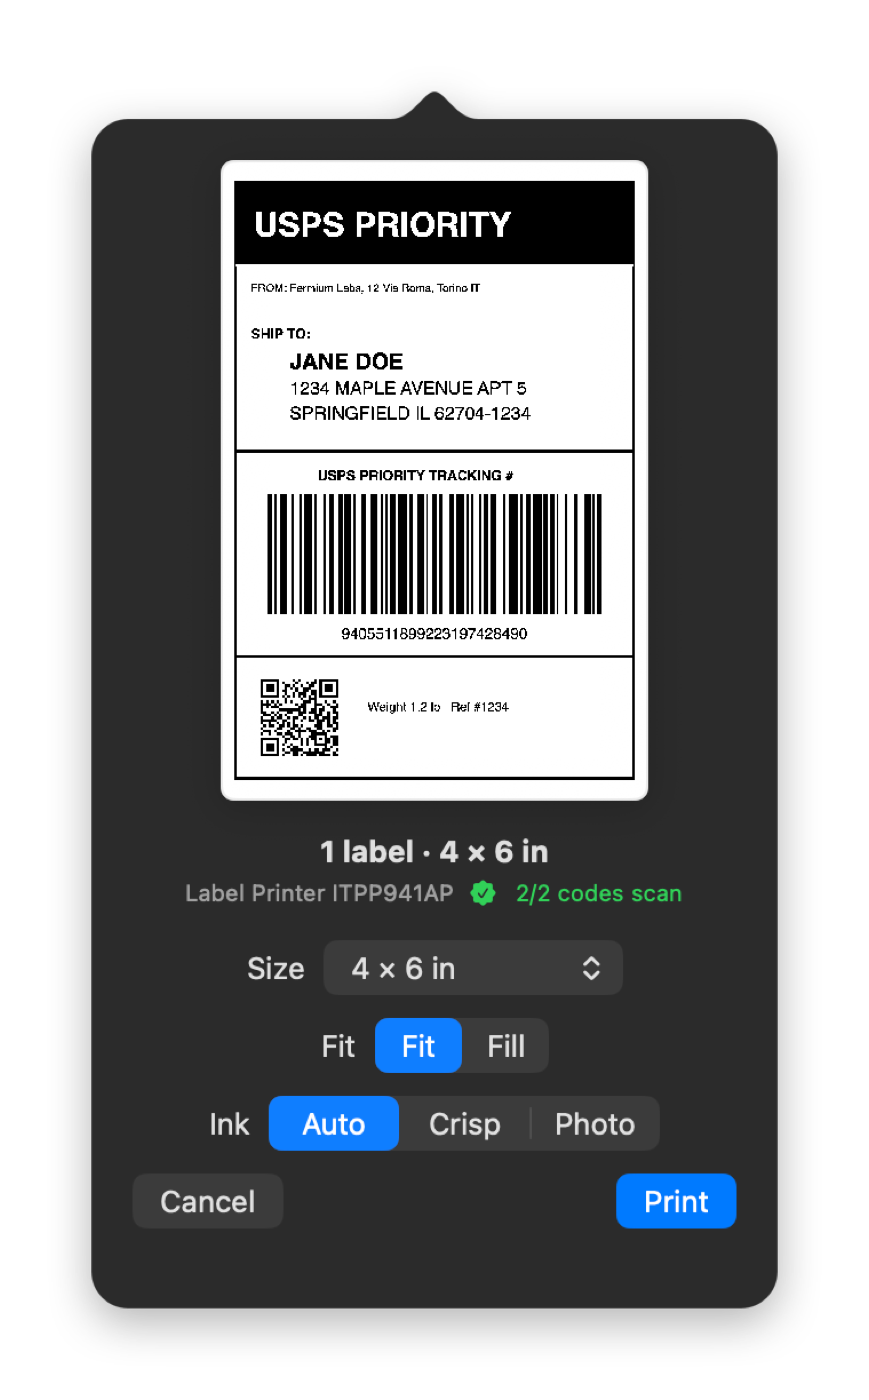
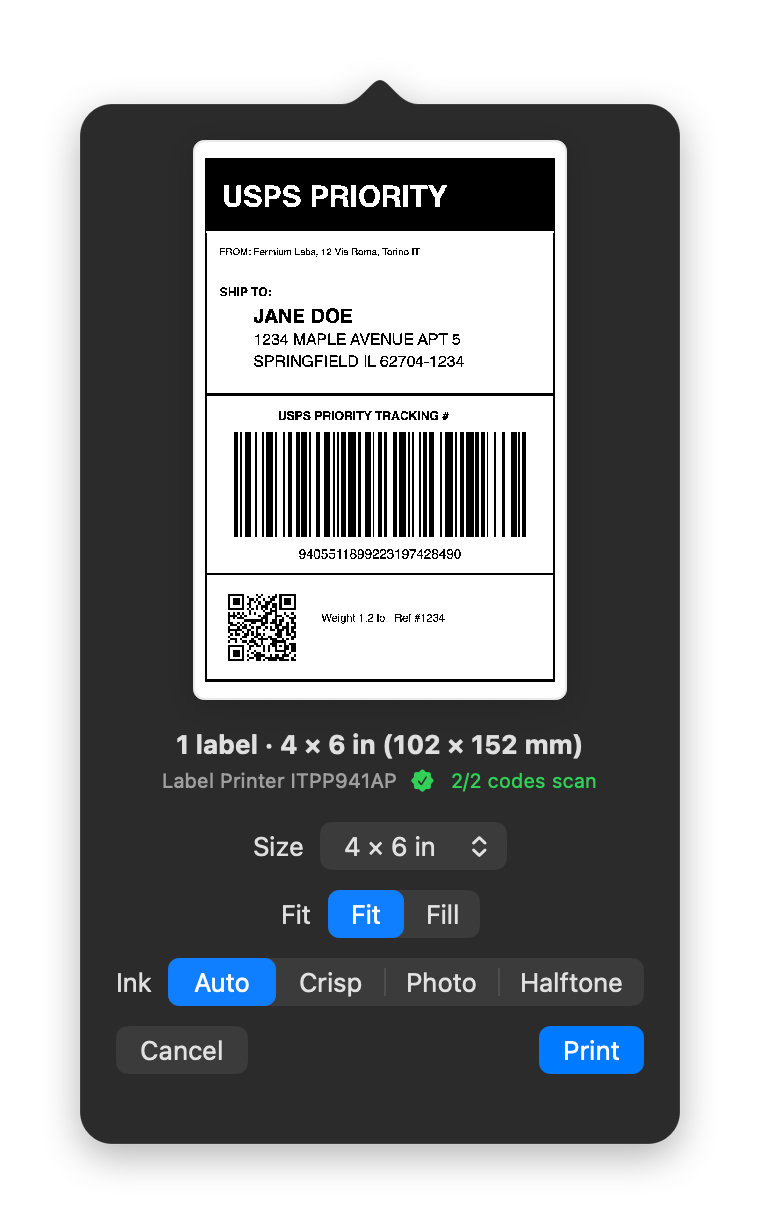
README: polish copy, add Rules section, refresh screenshots

diff --git a/README.md b/README.md
@@ -5,41 +5,65 @@
   </picture>
 </p>
 
-A small, simple, delightful Mac menu bar app that prints your labels instantly. Drop a PDF, PNG or any other image on it and it prints, with advanced features for automation when you need them.
+A small, simple, delightful Mac menu bar app that prints your labels instantly. Drop a PDF/PNG/SVG/etc in the top bar or use the rules to automatically print from a watched folder and route to any printer.
 
 <p align="center">
   <picture>
     <source media="(prefers-color-scheme: dark)" srcset="docs/screenshots/popover-review-dark.png">
-    <img src="docs/screenshots/popover-review-light.png" width="380" alt="The preview popover showing a 4 × 6 shipping label, with Size, Fit and Ink controls and a Print button">
+    <img src="docs/screenshots/popover-review-light.png" width="340" alt="The preview popover: a 4 × 6 shipping label with Size, Fit and Ink controls and a Print button">
+  </picture>
+  <picture>
+    <source media="(prefers-color-scheme: dark)" srcset="docs/screenshots/popover-dropzones-dark.png">
+    <img src="docs/screenshots/popover-dropzones-light.png" width="330" alt="Printer tiles shown while dragging: a label printer and a color printer">
   </picture>
 </p>
-
-Drop a PDF, screenshot, image or SVG on the parcel icon in the menu bar. Peel Good Inc. centers it, rotates it, scales it and prints it just the way you want.
-
-We're a small family-run business. We got tired of printing all our shipping labels by hand and getting confused about which ones we'd already printed, so we made this.
 
 ## Features
 
-- Automatically identifies barcodes, QR codes and DataMatrix codes, and lines them up with the exact dots your printer can print.
-- Supports common label sizes such as 4 × 6, 4 × 8, 4 × 4, 4 × 3, 4 × 2, 3 × 5, 3 × 3, 3 × 2, 2.5 × 1.5, 2.25 × 2.25, 2.25 × 1.25 and 2 × 2 in, plus custom sizes.
+- Finds barcodes, QR codes and DataMatrix codes and lines them up with the exact dots in your printhead.
+- Extensive rule system to automatically identify documents and send them to the right printer.
+- MCP Server to use the printer through AI clients as well as use AI to automatically configure and test the app.
+- Common label sizes: 4 × 6, 4 × 8, 4 × 4, 4 × 3, 4 × 2, 3 × 5, 3 × 3, 3 × 2, 2.5 × 1.5, 2.25 × 2.25, 2.25 × 1.25 and 2 × 2 in, metric rolls such as 100 × 150 mm, and custom sizes.
 - Watches a folder for new files.
-- Supports advanced rules to identify each label and route it to the right printer with the right settings.
-- After printing, it can tag the file in Finder, rename it, move it or put it in the Trash, so there's no confusion about which labels have been printed and which haven't.
-- A native Mac app: it works from the Share menu, Services, Open With, the clipboard and, of course, the menu bar.
+- After printing it can tag the file in Finder, rename it, move it or put it in the Trash, so you always know which labels are done.
+- Native Mac app: Share menu, Services, Open With, the clipboard and the menu bar.
+- Thermal printers only print black and white, and most documents aren't made for that. *Peel Good Inc.* converts them using multiple algorithms (sharp, dithering, halftone).
 
 <p align="center">
   <picture>
-    <source media="(prefers-color-scheme: dark)" srcset="docs/screenshots/settings-rules-dark.png">
-    <img src="docs/screenshots/settings-rules-light.png" width="640" alt="The Rules tab in Settings, with rules for Royal Mail, Amazon returns and photos">
+    <source media="(prefers-color-scheme: dark)" srcset="docs/screenshots/settings-printers-dark.png">
+    <img src="docs/screenshots/settings-printers-light.png" width="560" alt="Printers settings: label size, scaling, ink mode, threshold and a test label preview">
   </picture>
 </p>
-
-Thermal label printers can only print in black and white. Unfortunately, documents often aren't formatted for thermal labels, so Peel Good Inc. automatically converts them to black and white, using either a sharp conversion or dithering.
 
 <p align="center">
   <picture>
     <source media="(prefers-color-scheme: dark)" srcset="docs/screenshots/ink-modes-dark.png">
-    <img src="docs/screenshots/ink-modes-light.png" width="640" alt="The Ink Modes window comparing a sample label in Auto, Crisp and Photo">
+    <img src="docs/screenshots/ink-modes-light.png" width="640" alt="The Ink Modes window comparing a sample label in each ink mode">
+  </picture>
+</p>
+
+## Rules
+
+A rule is one sentence: when a file matches these conditions, print it on this printer at this size. Rules are checked from the top; the first match wins. Anything else goes to the default printer.
+
+Conditions: source website, file name, file type, folder, how it arrived (drop, clipboard, Finder, watched folder, another app), page size, number of pages, codes on the page, code text.
+
+A rule sets the printer, label size, scaling, ink, copies, whether to print, preview or ask first, and a Finder tag after printing.
+
+Templates for Amazon returns, Royal Mail Click & Drop and shipping labels on Letter pages. Test a File in Settings → Rules shows which rule a file matches without printing.
+
+<p align="center">
+  <picture>
+    <source media="(prefers-color-scheme: dark)" srcset="docs/screenshots/settings-rules-dark.png">
+    <img src="docs/screenshots/settings-rules-light.png" width="560" alt="The Rules tab in Settings, with rules for Royal Mail, Amazon returns and photos">
+  </picture>
+</p>
+
+<p align="center">
+  <picture>
+    <source media="(prefers-color-scheme: dark)" srcset="docs/screenshots/settings-rule-editor-dark.png">
+    <img src="docs/screenshots/settings-rule-editor-light.png" width="500" alt="The rule editor: conditions on QR code and code text, then printer, size, scaling, ink and Finder tag">
   </picture>
 </p>
 
@@ -52,56 +76,84 @@ brew install --cask fermium/tap/peel-good-inc
 
 Or download the DMG from [Releases](https://github.com/fermium/peel-good-inc/releases).
 
-Please note the app is not signed by Apple (yet). The Homebrew cask clears the quarantine flag for you automatically. If you use the DMG, Control-click the app and choose Open the first time.
+The app isn't signed by Apple (yet). The Homebrew cask clears the quarantine flag for you. With the DMG, Control-click the app and choose Open the first time.
 
-The app requires macOS 15 or later. It has been tested on a MUNBYN ITPP941AP printer, and it should work with any label printer that macOS can print to over AirPrint or a CUPS driver. Keep in mind, though, that CUPS drivers for thermal printers are utterly broken on the Mac.
+Needs macOS 15 or later. Tested on a MUNBYN ITPP941AP; it should work with any label printer macOS can print to over AirPrint or a CUPS driver.
+
+Keep in mind that CUPS drivers for thermal printers are utterly broken on the Mac.
 
 ## Privacy
 
-This app doesn't send any user data. The HTTP API and the MCP server for AI assistants are off by default, and when you turn them on they only accept connections from your own Mac, authenticated with a token. There are no ads, no tracking, nothing of the sort.
+No user data leaves your Mac. No ads, no tracking, no analytics.
+
+The HTTP API and MCP server are off by default and, when on, only accept token-authenticated connections from your own Mac.
 
 ## HTTP API and MCP
 
-Both off by default; Settings → API toggles each. They bind 127.0.0.1:47311, need the bearer token from `~/Library/Application Support/Peel Good/token`, and reject requests from browsers. Jobs go through the same rules, countdown and preview as a drop.
+<p align="center">
+  <picture>
+    <source media="(prefers-color-scheme: dark)" srcset="docs/screenshots/settings-api-dark.png">
+    <img src="docs/screenshots/settings-api-light.png" width="500" alt="API settings: MCP server and its permissions, and the HTTP API">
+  </picture>
+</p>
 
-HTTP takes uploads only: no local paths, clipboard or reprint. Docs at http://127.0.0.1:47311/, spec at `/openapi.json`.
+Turn either on in Settings → API. Both listen on 127.0.0.1:47311 and use the token in `~/Library/Application Support/Peel Good/token`.
+
+Jobs follow your rules, same as dropping a file in the top bar.
+
+HTTP: upload a file, it prints. Docs at http://127.0.0.1:47311/.
 
 ```sh
 curl -H "Authorization: Bearer $(cat ~/Library/Application\ Support/Peel\ Good/token)" \
   -F file=@label.pdf http://127.0.0.1:47311/v1/print
 ```
 
-MCP: printers, sizes, preview, print, jobs, settings, rules. Local files and settings changes are separate switches (settings: off, 45 minutes or always). It can't change its own switches or the token.
+MCP: printers, sizes, preview, print, jobs, settings and rules. Reading local files and changing settings each have their own switch.
 
 ```sh
 claude mcp add --transport http peel-good http://127.0.0.1:47311/mcp \
   --header "Authorization: Bearer $(cat ~/Library/Application\ Support/Peel\ Good/token)"
 ```
 
-Claude Desktop config: copy it from Settings → API.
+For Claude Desktop, copy the config from Settings → API.
+
+## Command line
+
+```
+peelgood print [options] file...
+peelgood preview [options] file...
+peelgood doctor
+peelgood help [command]
+```
+
+```
+print      Print to the default label printer.
+preview    Write the label PDF and PNGs. Nothing is printed.
+doctor     Check printers, CUPS and the app.
+help       Show options for a command.
+
+--size WxH     Label size in inches or mm, e.g. 4x6 or 100x150mm.
+--dry-run      Show what would be sent. Nothing is printed.
+--json         Machine-readable output.
+```
+
+Uses the app's printers, settings and rules. Installed by Homebrew with its man page and completions, or from Settings → CLI. See `man peelgood`.
+
+<p align="center">
+  <picture>
+    <source media="(prefers-color-scheme: dark)" srcset="docs/screenshots/settings-cli-dark.png">
+    <img src="docs/screenshots/settings-cli-light.png" width="500" alt="CLI settings: install status for peelgood and the built-in manual">
+  </picture>
+</p>
 
 ## Build from source
 
-```sh
+```bash
 swift build
 swift test
 ./scripts/make-app.sh
 open "build/Peel Good Inc.app"
 ```
-
-The same pipeline is a command-line tool, `peelgood`. Homebrew installs it with its man page and completions; otherwise use Settings > CLI > Install Command.
-
-```sh
-peelgood print ~/Downloads/order-1234-label.pdf    # your label printer, the app's settings
-peelgood preview return-code.png --size 4x4        # label PDF and PNGs, nothing printed
-peelgood print label.pdf --dry-run --json          # what would be sent, for scripts
-peelgood doctor                                    # printers, CUPS, the app and its API
-peelgood help print                                # every option, with examples
-```
-
-The old flag-only form (`peelgood label.pdf --size 4x6 --print`) still works. In a checkout, use `swift run peelgood …`.
-
-`LabelKit` holds the label pipeline and `PeelGoodCLI` describes the command line once for help, completions, the man page and Settings > CLI. The app is in `Sources/PeelGoodApp`, the release process is in [RELEASING.md](RELEASING.md), and `./scripts/screenshots.sh` renders the screenshots above.
 
 ## License
 
